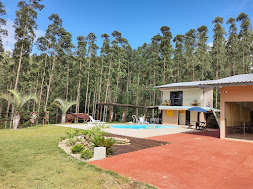
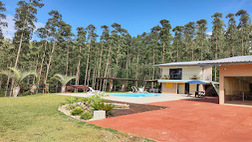
att

diff --git a/css/style.css b/css/style.css
@@ -403,6 +403,7 @@ input[type="password"]:focus {
   border-radius: 0.5rem;
   overflow: hidden;
   height: 100%; /* Garante que o card ocupe toda a altura disponível */
+  
 }
 #cards {
   display: flex;

diff --git a/index.php b/index.php
@@ -56,7 +56,7 @@ $retorno_consulta = $conexao->query($consultar_banco) or die($conexao->error);
             background-repeat: no-repeat;
             background-position: center;
             background-size: 100%;
-            background-position-y: 90%;
+            background-position-y: 40%;
             text-align: center;
         }
 
